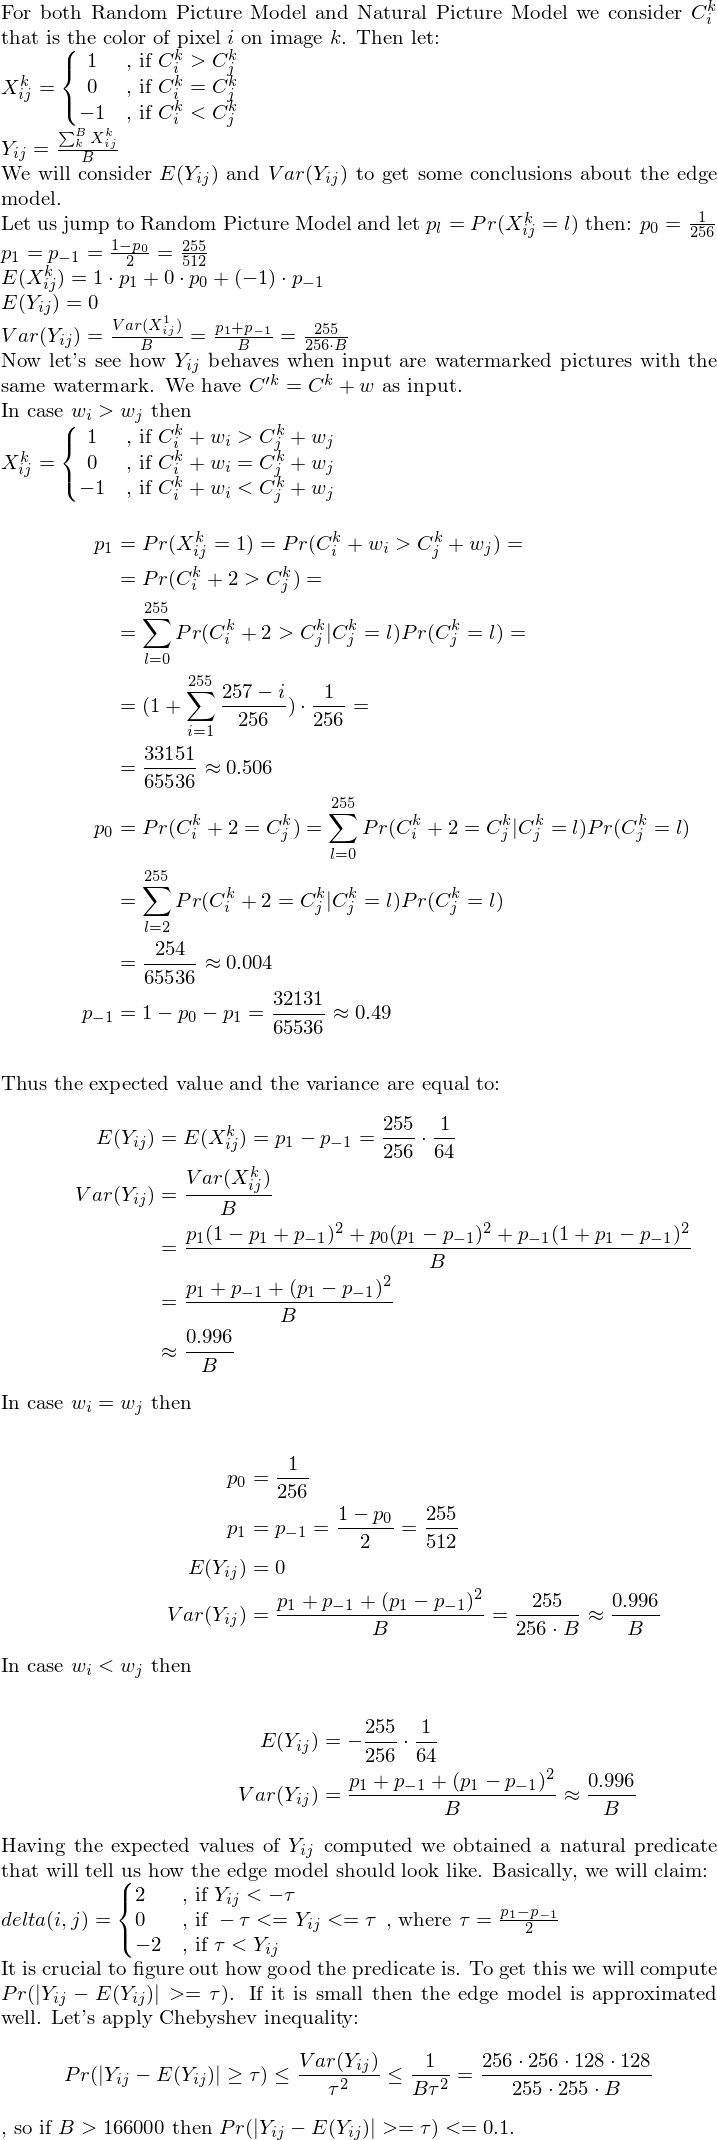
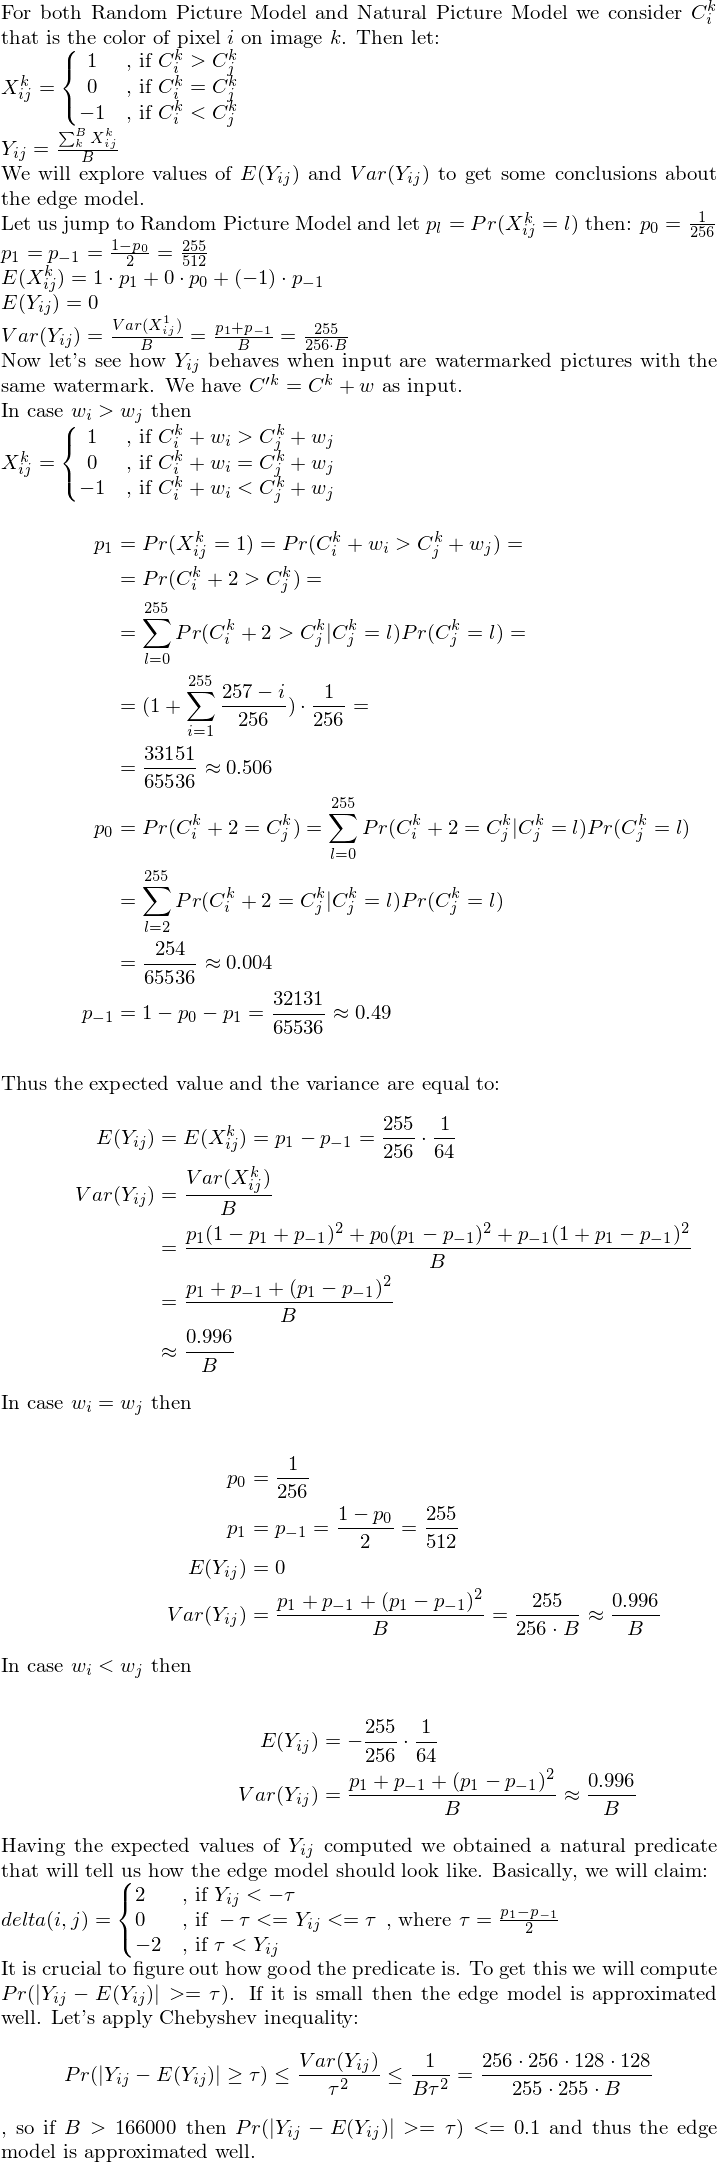
wording and note that model is approximeted well

diff --git a/latex/analysis.tex b/latex/analysis.tex
@@ -12,8 +12,8 @@ $X^k_{ij} =
 -1 & \text{, if } C^k_i < C^k_j
 \end{matrix}\right.$\\
 $Y_{ij} = \frac{\sum^B_k X^k_{ij}}{B}$\\
-We will consider $E(Y_{ij})$ and $Var(Y_{ij})$ to get some conclusions about
-the edge model.\\
+We will explore values of $E(Y_{ij})$ and $Var(Y_{ij})$ to get some conclusions
+about the edge model.\\
 Let us jump to Random Picture Model and let $p_l = Pr(X^k_{ij} = l)$ then:
 $p_0 = \frac{1}{256}$\\
 $p_1 = p_{-1} = \frac{1-p_0}{2} = \frac{255}{512}$\\
@@ -79,5 +79,6 @@ Pr(|Y_{ij} - E(Y_{ij})| \geq \tau)
   \leq \frac{1}{B\tau^2}
   = \frac{256\cdot 256\cdot 128\cdot 128}{255\cdot 255\cdot B}
 $$
-, so if $B > 166000$ then $Pr(|Y_{ij} - E(Y_{ij})| >= \tau) <= 0.1$.
+, so if $B > 166000$ then $Pr(|Y_{ij} - E(Y_{ij})| >= \tau) <= 0.1$ and thus
+the edge model is approximated well.
 \end{document}
